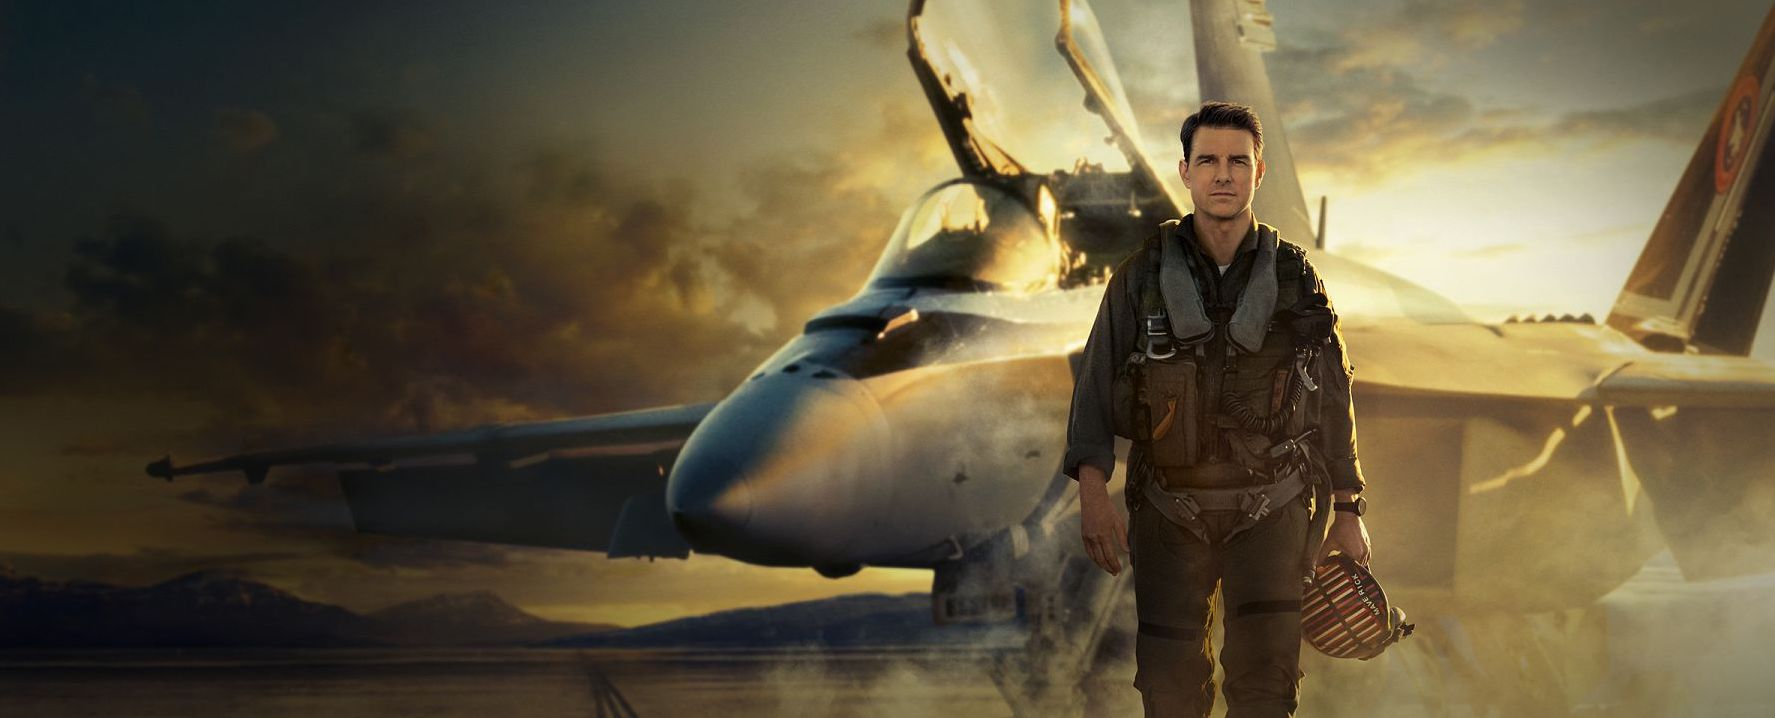
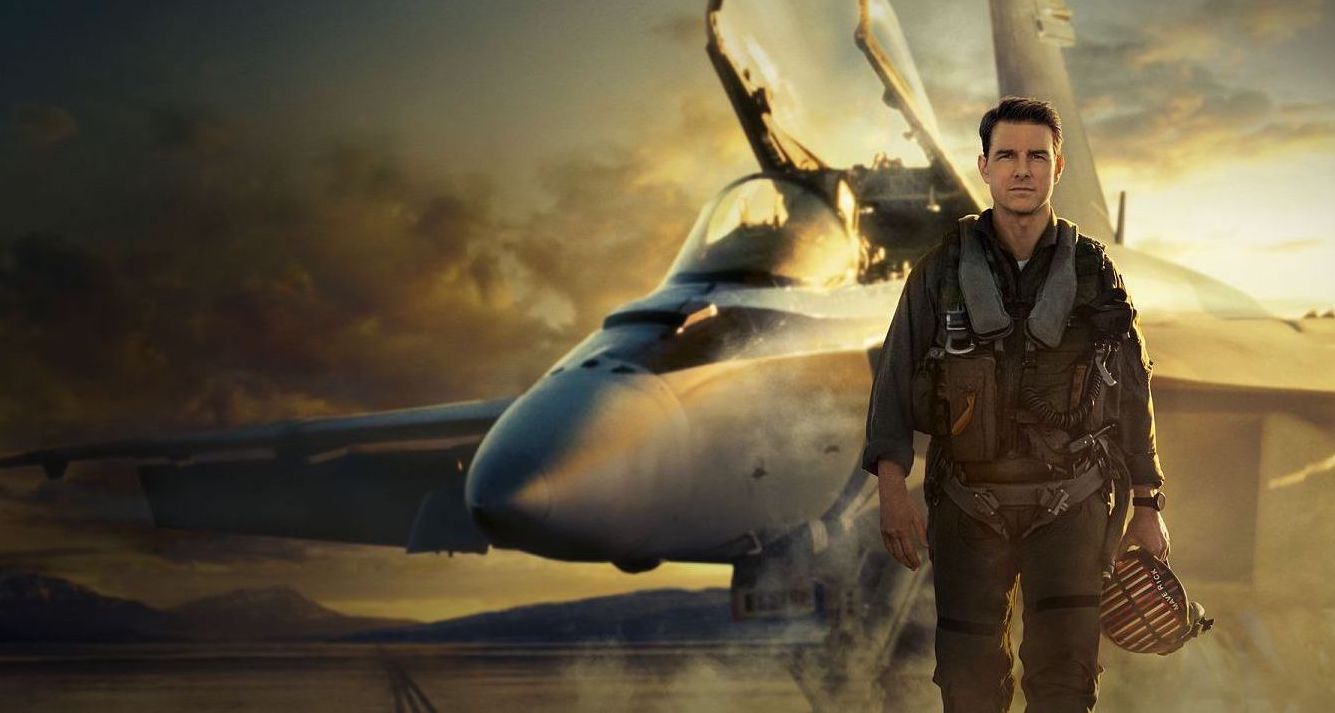
responsive 1st step

diff --git a/js/code.js b/js/code.js
@@ -20,9 +20,6 @@ divHija1_1.className = "ms-2"
 divHijaCont1.appendChild(divHija1_1)
 
 let imgDivHija1_1 = document.createElement("img")
-imgDivHija1_1.setAttribute("src","../img/kindpng_7354127.png")
-imgDivHija1_1.style = "width:150px"
-imgDivHija1_1.className="me-5" 
 imgDivHija1_1.setAttribute("alt", "logo_paramount")
 divHija1_1.appendChild(imgDivHija1_1)
 
@@ -99,7 +96,7 @@ window.addEventListener('scroll', () => {
     if(window.scrollY >= 430){
         btnFormDivHija1_2.classList.add("d-none");
         btn2FormDivHija1_2.classList.remove("d-none");
-        if(window.scrollY >= 1700){
+        if(window.scrollY >= 2300){
             btnFormDivHija1_2.classList.remove("d-none");
             btn2FormDivHija1_2.classList.add("d-none");
         }else{
@@ -122,11 +119,11 @@ divTextButtonsContainer.classList.add("d-grid", "gap-1","m-4")
 divContainer1.appendChild(divTextButtonsContainer)
 
 let sectionTextButtonsContainer = document.createElement("section")
-sectionTextButtonsContainer.classList.add("col-lg-6", "text-white")
+sectionTextButtonsContainer.classList.add("section1")
 divTextButtonsContainer.appendChild(sectionTextButtonsContainer)
 
 let divTextSectionTextBs = document.createElement("div")
-divTextSectionTextBs.className = "mt-3"
+divTextSectionTextBs.className = "texte-section1"
 sectionTextButtonsContainer.appendChild(divTextSectionTextBs)
 
 let h1DivTextDivTextS = document.createElement("h1")
@@ -159,19 +156,19 @@ divHijaDivButtons.classList.add("d-grid","gap-2","mt-5","pb-4")
 divButtonsSectionTextBs.appendChild(divHijaDivButtons)
 
 let btn1DivHijaDivBs = document.createElement("button")
-btn1DivHijaDivBs.classList.add("btn", "btn-primary", "col-7","paramsDivBtnC1")
+btn1DivHijaDivBs.classList.add("btn", "btn-primary","paramsDivBtnC1")
 btn1DivHijaDivBs.type = "submit"
 btn1DivHijaDivBs.innerText = "SUSCRÍBETE A PARAMOUNT+"
 divHijaDivButtons.appendChild(btn1DivHijaDivBs)
 
 let btn2DivHijaDivBs = document.createElement("button")
-btn2DivHijaDivBs.classList.add("btn", "btn-outline-light", "col-7", "mt-2","paramsDivBtnC1")
+btn2DivHijaDivBs.classList.add("btn", "btn-outline-light", "mt-2","paramsDivBtnC1")
 btn2DivHijaDivBs.type = "submit"
 btn2DivHijaDivBs.innerText = "YA TENGO PARAMOUNT+"
 divHijaDivButtons.appendChild(btn2DivHijaDivBs)
 
 let btn3DivHijaDivBs = document.createElement("button")
-btn3DivHijaDivBs.classList.add("btn", "btn-outline-light", "col-7", "mt-2","paramsDivBtnC1")
+btn3DivHijaDivBs.classList.add("btn", "btn-outline-light", "mt-2","paramsDivBtnC1")
 btn3DivHijaDivBs.type = "submit"
 btn3DivHijaDivBs.innerText = "INICIA SESIÓN CON TU PROVEEDOR"
 divHijaDivButtons.appendChild(btn3DivHijaDivBs)
@@ -360,7 +357,7 @@ divArticle1T1C3.appendChild(strongDivArt1T1C3)
 
 // _____article vide lado derecho ------
 let articleTextContainer3 = document.createElement("article")
-articleTextContainer3.classList.add("col-lg-5", "text-white")
+articleTextContainer3.classList.add()
 section1DivContainer3.appendChild(articleTextContainer3)
 
 // -----------SECTION 3---slider de card-img-link-------------------------
@@ -476,7 +473,7 @@ divContainer4.style.height = '100vh'
 bodyPagina.appendChild(divContainer4)
 
 let sectionDivContainer4 = document.createElement("section")
-sectionDivContainer4.classList.add("mt-5")
+sectionDivContainer4.classList.add("mt-5", "section4")
 divContainer4.appendChild(sectionDivContainer4)
 
 let h1Div2SecDC4 = document.createElement("h1")
@@ -494,28 +491,28 @@ div1SecDiCont4.appendChild( strong1Div2SecDC4)
 
 // 3buttons container4
 let divButtonsSectionTextBsC4 = document.createElement("div")
-divButtonsSectionTextBsC4.classList.add("d-flex", "justify-content-center", "align-item-center")
+divButtonsSectionTextBsC4.classList.add()
 sectionDivContainer4.appendChild(divButtonsSectionTextBsC4)
 //  ok hasta aqui
 
 let divHijaDivButtonsC4 = document.createElement("div")
-divHijaDivButtonsC4.classList.add("d-grid","gap-2","mt-5","pb-4", "mx-5")
+divHijaDivButtonsC4.classList.add("d-grid","gap-2","mt-4")
 divButtonsSectionTextBsC4.appendChild(divHijaDivButtonsC4)
 // // ok hasta aqui
 let btn1DivHijaDivBsC4 = document.createElement("button")
-btn1DivHijaDivBsC4.classList.add("btn", "btn-primary", "px-5", "mt-2", "paramsDivBtnC4")
+btn1DivHijaDivBsC4.classList.add("btn", "btn-primary","paramsDivBtnC4")
 btn1DivHijaDivBsC4.type = "submit"
 btn1DivHijaDivBsC4.innerText = "SUSCRÍBETE A PARAMOUNT+"
 divHijaDivButtonsC4.appendChild(btn1DivHijaDivBsC4)
 
 let btn2DivHijaDivBsC4 = document.createElement("button")
-btn2DivHijaDivBsC4.classList.add("btn", "btn-outline-light", "px-5", "mt-2", "paramsDivBtnC4")
+btn2DivHijaDivBsC4.classList.add("btn", "btn-outline-light","paramsDivBtnC4")
 btn2DivHijaDivBsC4.type = "submit"
 btn2DivHijaDivBsC4.innerText = "YA TENGO PARAMOUNT+"
 divHijaDivButtonsC4.appendChild(btn2DivHijaDivBsC4)
 
 let btn3DivHijaDivBsC4 = document.createElement("button")
-btn3DivHijaDivBsC4.classList.add("btn", "btn-outline-light", "px-5", "mt-2", "paramsDivBtnC4")
+btn3DivHijaDivBsC4.classList.add("btn", "btn-outline-light","paramsDivBtnC4")
 btn3DivHijaDivBsC4.type = "submit"
 btn3DivHijaDivBsC4.innerText = "INICIA SESIÓN CON TU PROVEEDOR"
 divHijaDivButtonsC4.appendChild(btn3DivHijaDivBsC4)

diff --git a/css/style.css b/css/style.css
@@ -11,39 +11,51 @@ body{
     background-size:cover;
     padding-left: 20px;
     width: auto;
-    background-repeat: no-repeat;
-    
-    
+    background-repeat: no-repeat;  
 }
 
 .navbar_params{
     z-index: 999;
     padding-top: 60px;
+    position: fixed;
+}
+
+.section1{
+    position: absolute;
+    color: white;
+    width: 700px;
 }
 .h1-font{
     font-family: 'Gill Sans', 'Gill Sans MT', Calibri, 'Trebuchet MS', sans-serif;
-    font-size: 48px;
+    font-size: 60px;
     font-weight: bold;
-    
-    margin-top: 70px;
+    margin-top: 100px;
+    line-height: 0.95;
+
 }
 
+.section4{
+    width: 700px;
+    margin: 70px auto;
+}
 .h1-fontC4{
     font-family: 'Gill Sans', 'Gill Sans MT', Calibri, 'Trebuchet MS', sans-serif;
-    font-size: 55px;
+    font-size: 65px;
     font-weight: bold;
-    display: flex;
-    justify-items: center;
-    align-items: center;
-    margin-left: 400px;
+    text-align: center;
+    margin: 0 auto;
 
+}
+.btn{
+    border-radius: 0;
 }
 
 .textPubRegistro{
     font-family: 'Gill Sans', 'Gill Sans MT', Calibri, 'Trebuchet MS', sans-serif;
     font-size: 20px;
     font-weight: lighter;
-    margin-bottom: -30px
+    margin-bottom: -30px;
+
 }
 
 .color-logo{
@@ -89,9 +101,12 @@ body{
 .divBtnC1{
     padding-top: 30px;
 }
+.paramsDivBtnC1{
+    width: 70%;
+}
 
 .bgImage2{
-    background-image: url('../img/uk_ie_upsell_hero2_weblandscape_2560x960_060922_1.jpeg');
+    background-image: url('../img/imgC2/uk_ie_upsell_hero2_weblandscape_2560x960_060922_1.jpeg');
     background-size: cover;
     background-position: center;
     width: auto;
@@ -102,7 +117,7 @@ body{
    padding-top: 80px;
 }
 .bgImage3{
-    background-image: url('https://wwwimage-intl.pplusstatic.com/thumbnails/photos/w2880-q80/cbs_page_attribute/16/52/image_2843f892-4464-4923-841c-7b424751fdf4.jpg');
+    background-image: url('../img/imgC3/startrek0.jpeg');
     background-size: cover;
     background-position: center;
     width: auto;
@@ -117,11 +132,7 @@ body{
     padding: 20px 30px 30px 30px;
 }
 
-
-
-
-
-.body__swiper {
+.body_swiper {
     position:relative;
     height: 100%;
     background: transparent;
@@ -130,17 +141,14 @@ body{
     padding: 0;
 }
 
-.paramsDivBtnC1{
+.paramsDivBtnC1, .paramsDivBtnC4{
     padding: 18px 0;
     font-size: 18px;
     font-weight: 500;
 }
-
 .paramsDivBtnC4{
-    margin: 0 100px;
-    font-size: 18px;
-    font-weight: 500;
-    padding: 20px;
+    width: 500px;
+    margin: 3px auto;
 }
 
 .slick-arrow.slick-prev {
@@ -169,3 +177,67 @@ footer, ul{
 .div_ul{
     margin-left: 75px;
 }
+
+@media screen and (max-width: 1024px){
+    .bgImage1{
+        background-image: url('../img/imgC1/upsell_hero1_copie\ 1.jpg');
+    }
+    .bgImage2{
+        background-image: url('../img/imgC2/halobg_copie1.jpeg');
+    }
+    .bgImage3{
+        background-image: url('../img/imgC3/startrek1.jpeg');
+    }
+    .section1, .section4{
+        position: relative;
+        padding-left: 20px;
+        padding-right: 20px;
+        width: 100%;
+        box-sizing: border-box;
+        margin-top: 300px;
+    }
+
+    .h1-font, .h1-fontC4{
+        margin: 70px auto 20px;
+        font-size: 30px;
+        width: 300px;
+        text-align: center;
+    }
+    .textPubRegistro{
+        font-size: 16px;
+        width: 300px;
+        margin:0 auto;
+        padding: 0;
+    }
+    .paramsDivBtnC1{
+        width: 100%;
+        margin-top: 0;
+    }
+
+    .paramsDivBtnC4{
+        padding: 18px 0;
+        font-size: 18px;
+        font-weight: 500;
+        width: 100%;
+    }
+    
+
+   
+
+    
+}
+
+@media screen and (max-width: 700px){
+    .bgImage1{
+        background-image: url('../img/imgC1/upsell_hero1_copie\ 2.jpg');
+       
+    }
+    .bgImage2{
+        background-image: url('../img/imgC2/halo_s1_poster_1400x2100_nb_022822_2.jpeg');
+    }
+
+    .bgImage3{
+        background-image: url('../img/imgC3/startrek2.jpeg');
+
+}
+
